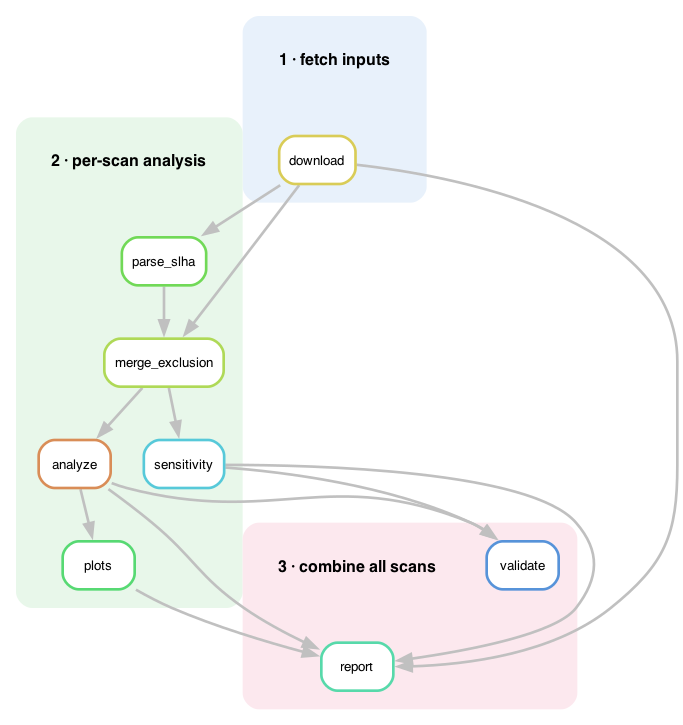
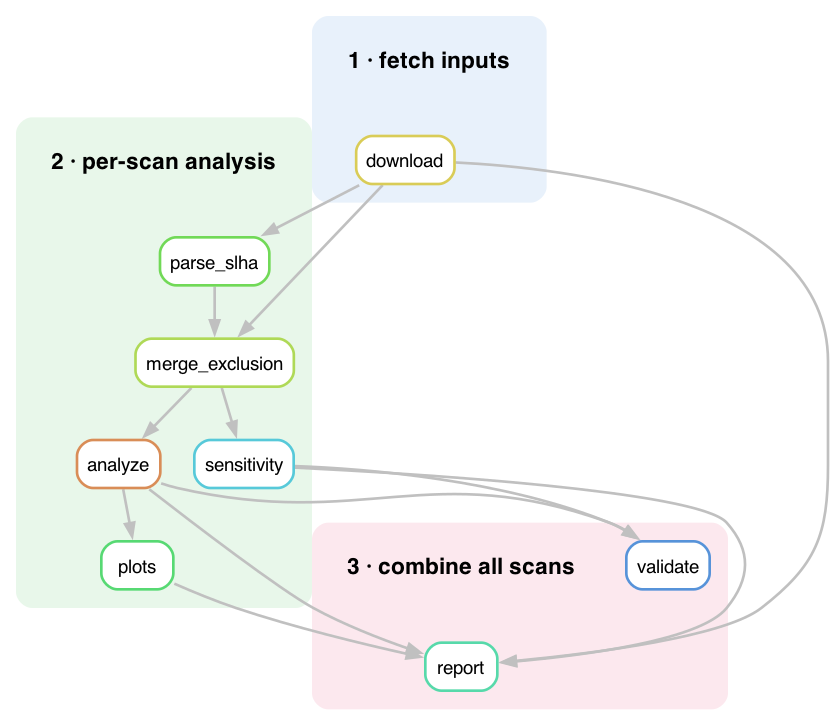
adding DAG with black background

diff --git a/workflow/cluster_dag.py b/workflow/cluster_dag.py
@@ -7,15 +7,20 @@ snakemake emits, so the picture cannot drift from the real Snakefile. A rule not
 still renders, just unclustered.
 
 Readability tweaks (cosmetic only):
-  * `outputorder=edgesfirst` + white-filled rule nodes -> edges run BEHIND the nodes;
+  * `outputorder=edgesfirst` + filled rule nodes -> edges run BEHIND the nodes;
   * each phase label is a FILLED header node (not the cluster's own label), so it is drawn
     on top of the edges -- arrows pass behind the title text;
+  * fill-only phase regions (no border line -> nothing for crossings to interrupt);
   * the `all` meta-target is dropped (pure fan-in clutter, no information).
 
-Invoked by `pixi run dag`:  snakemake --rulegraph | python workflow/cluster_dag.py | dot ...
+Pass `--dark` for a dark-background variant.
+
+Invoked by `pixi run dag` (light) and `pixi run dag-dark` (dark).
 """
 import re
 import sys
+
+DARK = "--dark" in sys.argv
 
 # (key, header label, rules in this phase) -- ordered top to bottom
 PHASES = [
@@ -23,8 +28,16 @@ PHASES = [
     ("perscan",   "2 · per-scan analysis",  ["parse_slha", "merge_exclusion", "analyze", "sensitivity", "plots"]),
     ("aggregate", "3 · combine all scans",  ["report", "validate"]),
 ]
-FILL = {"ingest": "#e8f1fb", "perscan": "#e8f7ea", "aggregate": "#fce8ee"}
 DROP = {"all"}                       # meta-target: drop it and every edge touching it
+
+if DARK:
+    BG, EDGE = "#0d1117", "#8b949e"
+    NODE_FILL, NODE_TEXT, TITLE = "#161b22", "#e6edf3", "#e6edf3"
+    FILL = {"ingest": "#172234", "perscan": "#16261b", "aggregate": "#2b1a22"}
+else:
+    BG, EDGE = "white", "grey"
+    NODE_FILL, NODE_TEXT, TITLE = "white", "black", "black"
+    FILL = {"ingest": "#e8f1fb", "perscan": "#e8f7ea", "aggregate": "#fce8ee"}
 
 node_re = re.compile(r'^\s*(\d+)\[label = "([^"]+)"')
 header, edges, node_line, id_of = [], [], {}, {}
@@ -34,12 +47,16 @@ for ln in sys.stdin.read().splitlines():
         nid, name = m.group(1), m.group(2)
         id_of[name] = nid
         if name not in DROP:
-            # white fill so edges (drawn first) run behind the node body
-            node_line[name] = ln.strip().replace('style="rounded"', 'style="rounded,filled", fillcolor="white"')
+            # fill so edges (drawn first) run behind the node body; light text on dark fill
+            node_line[name] = ln.strip().replace(
+                'style="rounded"',
+                f'style="rounded,filled", fillcolor="{NODE_FILL}", fontcolor="{NODE_TEXT}"')
     elif "->" in ln:
         edges.append(ln.rstrip())
     elif ln.strip() != "}":
-        header.append(ln)
+        header.append(ln.replace("bgcolor=white", f'bgcolor="{BG}"')
+                         .replace("color=grey", f'color="{EDGE}"')
+                         .replace("fontsize=10", "fontsize=14"))   # larger rule-node labels
 
 drop_ids = {id_of[n] for n in DROP if n in id_of}
 edges = [e for e in edges if not (set(re.findall(r"\d+", e)) & drop_ids)]
@@ -60,7 +77,8 @@ for key, label, rules in PHASES:
                f'penwidth=0; fillcolor="{FILL[key]}"; margin=14;')
     # filled header node = the phase title, drawn on top of the edges
     out.append(f'    {hdr} [label="{label}", shape=box, style=filled, fillcolor="{FILL[key]}", '
-               f'color="{FILL[key]}", fontname="Helvetica-Bold", fontsize=12, margin="0.18,0.04"];')
+               f'color="{FILL[key]}", fontcolor="{TITLE}", fontname="Helvetica-Bold", '
+               f'fontsize=17, margin="0.18,0.04"];')
     for r in present:
         out.append("    " + node_line[r])
         clustered.add(r)